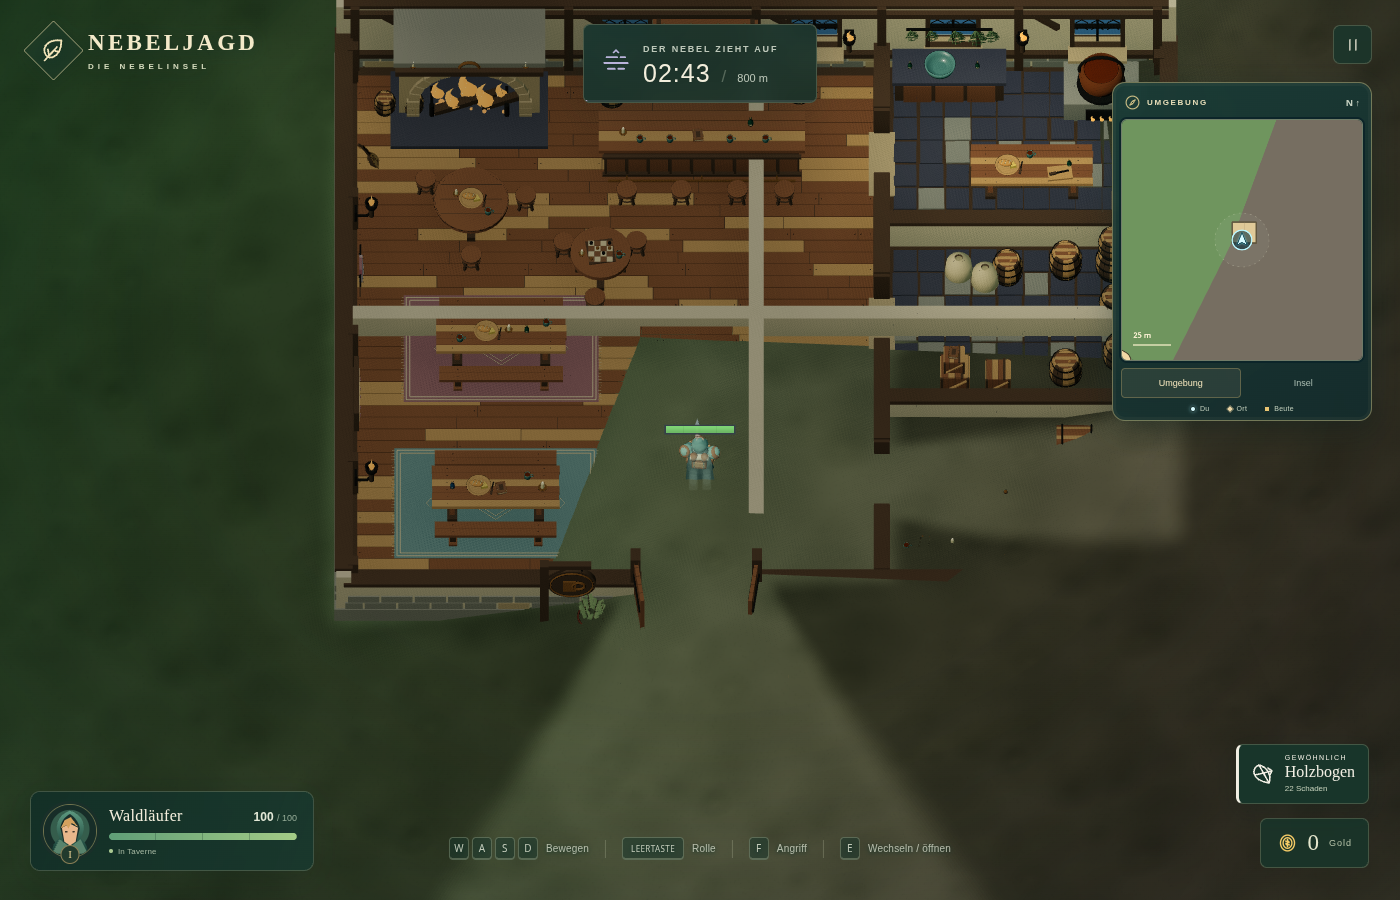
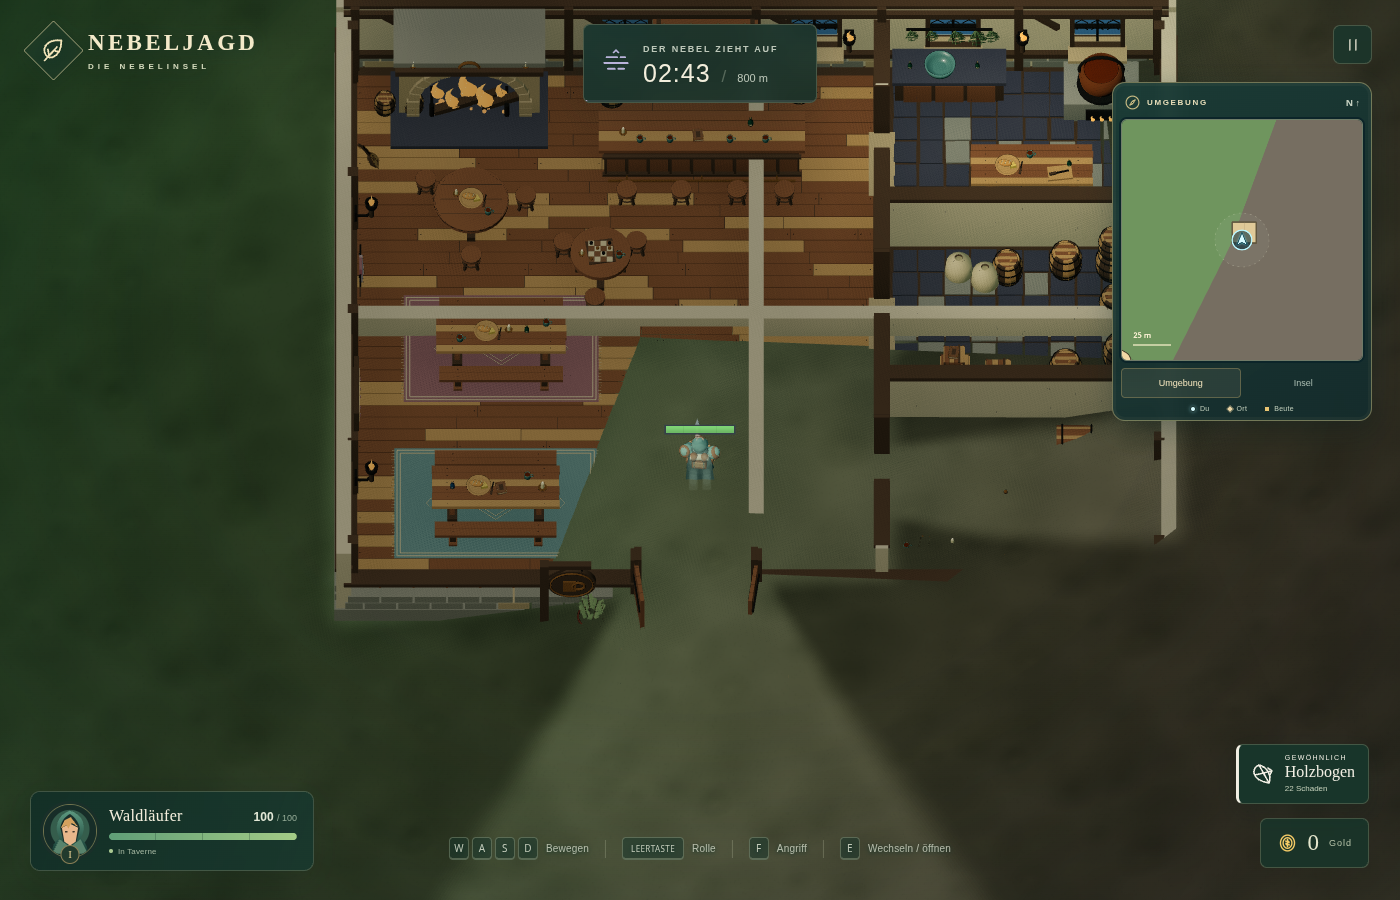
Raise tavern walls and clarify room cutaway

diff --git a/src/environment-kit.js b/src/environment-kit.js
@@ -75,6 +75,35 @@ function paintedGeometry(source, color, transform) {
   if (!geometry.attributes.normal) geometry.computeVertexNormals();
   return geometry;
 }
+const tavernWallHeight = name => {
+  if (/^(Ostwand|Westwand|Suedwand)$/i.test(name)) return 2.75;
+  if (/Trennwand$/i.test(name)) return 2.45;
+  if (/^(Eck_und_Seitenpfosten|Durchgangspfosten_)/i.test(name)) return /Durchgangspfosten_/i.test(name) ? 2.45 : 2.75;
+  return 0;
+};
+function shapeTavernArchitecture(geometry, name) {
+  geometry.computeBoundingBox();
+  const bounds = geometry.boundingBox;
+  let changed = false;
+  const targetHeight = tavernWallHeight(name);
+  if (targetHeight && bounds.max.y - bounds.min.y > 0.1 && bounds.max.y - bounds.min.y < targetHeight) {
+    const base = bounds.min.y, ratio = targetHeight / (bounds.max.y - base), positions = geometry.attributes.position;
+    for (let i = 0; i < positions.count; i++) positions.setY(i, base + (positions.getY(i) - base) * ratio);
+    positions.needsUpdate = true;
+    changed = true;
+  } else if (/^(Trennwand_Kappe|Zimmerwand_Kappe)/i.test(name) && bounds.max.y - bounds.min.y < 0.5) {
+    // Keep each wooden cap on the new top edge so doorways and room divisions
+    // have a clean, readable silhouette from the gameplay camera.
+    const shift = 2.38 - (bounds.min.y + bounds.max.y) / 2, positions = geometry.attributes.position;
+    for (let i = 0; i < positions.count; i++) positions.setY(i, positions.getY(i) + shift);
+    positions.needsUpdate = true;
+    changed = true;
+  }
+  if (changed) geometry.computeVertexNormals();
+  geometry.computeBoundingBox();
+  geometry.computeBoundingSphere();
+  return geometry;
+}
 function nativeBox(x, y, z, width, height, depth) {
   const geometry = new THREE.BoxGeometry(width, height, depth); geometry.translate(x, y, z); return geometry;
 }
@@ -140,23 +169,26 @@ export async function loadEnvironmentKit(map, { wind } = {}) {
         if (mesh.name === 'Studio_Boden' || /Praesentation/i.test(sourceMaterial?.name ?? '')) return;
         if (!sourceMaterial) return;
         const source = mesh.geometry.clone().applyMatrix4(mesh.matrixWorld).applyMatrix4(transform);
-        const key = sourceMaterial.uuid;
+        shapeTavernArchitecture(source, mesh.name);
+        const frontFacade = /^Suedwand$/i.test(mesh.name);
+        const key = `${sourceMaterial.uuid}/${frontFacade ? 'front' : 'room'}`;
         if (!batches.has(key)) batches.set(key, { material: tintTavernMaterial(sourceMaterial), geometries: [] });
         batches.get(key).geometries.push(source);
       });
       const parts = [];
-      for (const { material, geometries } of batches.values()) {
+      for (const [batchKey, { material, geometries }] of batches) {
         const geometry = geometries.length === 1 ? geometries[0] : mergeGeometries(geometries);
         if (geometries.length > 1) geometries.forEach(piece => piece.dispose());
         if (!geometry) { material.dispose(); continue; }
         geometry.computeBoundingBox(); geometry.computeBoundingSphere();
-        parts.push({ geometry, material, castShadow: true, interior: false, vegetationTint: false });
+        const frontFacade = batchKey.endsWith('/front');
+        parts.push({ geometry, material, castShadow: true, interior: false, frontFacade, vegetationTint: false });
       }
       gltf.scene.traverse(mesh => {
         if (!mesh.isMesh) return;
         mesh.geometry.dispose(); for (const material of Array.isArray(mesh.material) ? mesh.material : [mesh.material]) material.dispose();
       });
-      result.set(key, { ...definition, parts, roofRemoved: true, embedded: true });
+      result.set(key, { ...definition, parts, roofRemoved: true, embedded: true, raisedWalls: true });
       return;
     }
     const groups = new Map();

diff --git a/src/map/environment-kit-definitions.js b/src/map/environment-kit-definitions.js
@@ -38,19 +38,19 @@ const nativeDefinitions = [
     insideHalfWidth: 1.65, insideHalfDepth: 1.45, entranceHalfWidth: .65 }),
   entry('house', 'kit-taverne', 'taverne', 'Taverne', 3.115, { halfWidth: 11.25, halfDepth: 9.92 }, [
     wall(-11.2, 11.2, -8.7, -8.3, 3.05, 'house-wall'),
-    wall(-11.2, -10.8, -8.7, 8.7, 1.55, 'house-wall'),
-    wall(10.8, 11.2, -8.7, 8.7, 1.15, 'house-wall'),
+    wall(-11.2, -10.8, -8.7, 8.7, 2.75, 'house-wall'),
+    wall(10.8, 11.2, -8.7, 8.7, 2.75, 'house-wall'),
     // The broad, double entrance remains open on the south side.
-    wall(-11.2, -3.45, 8.3, 8.7, 1.15, 'house-wall'),
-    wall(.25, 11.2, 8.3, 8.7, 1.15, 'house-wall'),
+    wall(-11.2, -3.45, 8.3, 8.7, 2.75, 'house-wall'),
+    wall(.25, 11.2, 8.3, 8.7, 2.75, 'house-wall'),
     // The internal divider has three deliberate doorways to the guest rooms.
-    wall(3.18, 3.52, -8.35, -6.35, 1.15, 'house-wall'),
-    wall(3.18, 3.52, -4.05, -1.15, 1.15, 'house-wall'),
-    wall(3.18, 3.52, 1.15, 4.05, 1.15, 'house-wall'),
-    wall(3.18, 3.52, 6.35, 8.35, 1.15, 'house-wall'),
-    // Low cross-walls separate the kitchen, store room and guest rooms.
-    wall(4.8, 10.9, -2.96, -2.64, 1.15, 'house-wall'),
-    wall(4.8, 10.9, 2.64, 2.96, 1.15, 'house-wall'),
+    wall(3.18, 3.52, -8.35, -6.35, 2.45, 'house-wall'),
+    wall(3.18, 3.52, -4.05, -1.15, 2.45, 'house-wall'),
+    wall(3.18, 3.52, 1.15, 4.05, 2.45, 'house-wall'),
+    wall(3.18, 3.52, 6.35, 8.35, 2.45, 'house-wall'),
+    // Cross-walls separate the kitchen, store room and guest rooms.
+    wall(4.8, 10.9, -2.96, -2.64, 2.45, 'house-wall'),
+    wall(4.8, 10.9, 2.64, 2.96, 2.45, 'house-wall'),
   ], [], { roofless: true, anchorY: 0, anchorXZ: [0, 0], floorHeight: 0, interior: { halfWidth: 10.9, halfDepth: 8.2, entranceHalfWidth: 1.85 },
     insideHalfWidth: 10.9, insideHalfDepth: 8.2, entranceHalfWidth: 1.85 }),
   entry('crate', 'kit-wood', 'crate_wood', 'Holzkiste', .76, { halfWidth: .475, halfDepth: .475 }, [wall(-.475, .475, -.475, .475, .76, 'crate')]),

diff --git a/src/main.js b/src/main.js
@@ -377,8 +377,8 @@ window.nebeljagdTestState = () => ({
   character: { ...character.group.userData.characterAsset, opacity: character.group.userData.concealmentOpacity,
     locomotion: character.group.userData.locomotion },
   concealment: world.concealmentAt(player.x, player.z), shelter: state.shelter ?? null,
-  houses: world.houses.map(({ id, name, x, y, z, halfWidth, halfDepth, rotation, scale, floorHeight, roof, interior }) => ({ id, name, x, y, z, halfWidth, halfDepth, rotation, scale, floorHeight,
-    roofVisible: roof.visible, interiorVisible: interior.visible })),
+  houses: world.houses.map(({ id, name, x, y, z, halfWidth, halfDepth, rotation, scale, floorHeight, roof, interior, frontFacade }) => ({ id, name, x, y, z, halfWidth, halfDepth, rotation, scale, floorHeight,
+    roofVisible: roof.visible, interiorVisible: interior.visible, frontFacadeVisible: frontFacade.visible, frontFacadeParts: frontFacade.children.length })),
   zone: { ...currentZone, inDanger: state.inDanger },
   pickups: pickups.items.map(({ id, type, x, z, collected, group }) => ({ id, type, x, z, collected, visible: group.visible })),
   camera: { position: { x: camera.position.x, y: camera.position.y, z: camera.position.z }, focus: { x: cameraFocus.x, y: cameraFocus.y, z: cameraFocus.z } },

diff --git a/src/world-object-renderer.js b/src/world-object-renderer.js
@@ -292,7 +292,10 @@ export async function createWorldObjectRenderer(root, { map, heightAt, groundHei
       group.name = `${object.name} · ${object.id}`; group.userData.visionBlockerSurface = true; roof.name = 'Dach entfernt'; roof.visible = false; interior.name = 'Fachwerkhaus · offener Innenraum';
       group.position.set(x, groundHeightAt(x, z), z); group.rotation.y = object.rotation; group.scale.setScalar(scale);
       group.add(roof, frontFacade, interior);
-      for (const part of kit.parts) { const mesh = new THREE.Mesh(part.geometry, part.material); mesh.castShadow = part.castShadow; mesh.receiveShadow = true; (part.interior ? interior : group).add(mesh); }
+      for (const part of kit.parts) {
+        const mesh = new THREE.Mesh(part.geometry, part.material); mesh.castShadow = part.castShadow; mesh.receiveShadow = true;
+        (part.frontFacade ? frontFacade : part.interior ? interior : group).add(mesh);
+      }
       chunkFor(x, z).group.add(group);
       const structure = addStructure(object, kit.walls, group, true);
       const record = { id: object.id, name: object.name, kind: 'Fachwerkhaus', x, z, y: structure.y,

diff --git a/tests/environment_kit.test.js b/tests/environment_kit.test.js
@@ -52,6 +52,11 @@ test('the open-roof tavern keeps its front doorway and room entrances passable w
  assert.ok(index.traceSegment({x:5,y:.9,z:10},{x:5,y:.9,z:7},.08),'the remaining front wall blocks movement');
  assert.equal(index.traceSegment({x:0,y:.9,z:0},{x:6,y:.9,z:0},.08),null,'the central room doorway stays open');
  assert.ok(index.traceSegment({x:0,y:.9,z:3},{x:6,y:.9,z:3},.08),'room partitions block movement');
+ assert.equal(index.traceSegment({x:-1.5,y:2.1,z:10},{x:-1.5,y:2.1,z:7},.08),null,'the taller entrance still reads as an open passage');
+ assert.ok(index.traceSegment({x:5,y:2.1,z:10},{x:5,y:2.1,z:7},.08),'the taller facade remains solid above player height');
+ assert.equal(index.traceSegment({x:0,y:2.1,z:0},{x:6,y:2.1,z:0},.08),null,'the raised room doorway remains traversable');
+ assert.ok(index.traceSegment({x:0,y:2.1,z:3},{x:6,y:2.1,z:3},.08),'raised room partitions block movement and shots');
+ assert.equal(tavern.walls[1].maxY,2.75);assert.equal(tavern.walls[5].maxY,2.45);
  assert.equal(tavern.roofless,true);
 });
 

diff --git a/tests/environment_kit_smoke.py b/tests/environment_kit_smoke.py
@@ -242,7 +242,9 @@ try:
         inside=local_point(tavern,state(game)['position'])
         assert abs(inside[0])<definition['insideHalfWidth'] and abs(inside[1])<definition['insideHalfDepth'],inside
         assert state(game)['shelter']==tavern['name'],state(game)
-        passed('The uploaded roofless tavern renders its interior and its double entrance leads inside',{'localPosition':inside,'house':tavern_record})
+        tavern_record=next(h for h in state(game)['houses'] if h['id']==tavern['id'])
+        assert not tavern_record['frontFacadeVisible'] and tavern_record['frontFacadeParts']>0,tavern_record
+        passed('The raised tavern walls keep the entrance open, then cut away the front facade from inside',{'localPosition':inside,'house':tavern_record})
         capture(game,'taverne')
         grass=object_for('grass','kit-tall');inspect(game,grass['position'])
         game.wait_for_function('nebeljagdTestState().hiddenInGrass')
